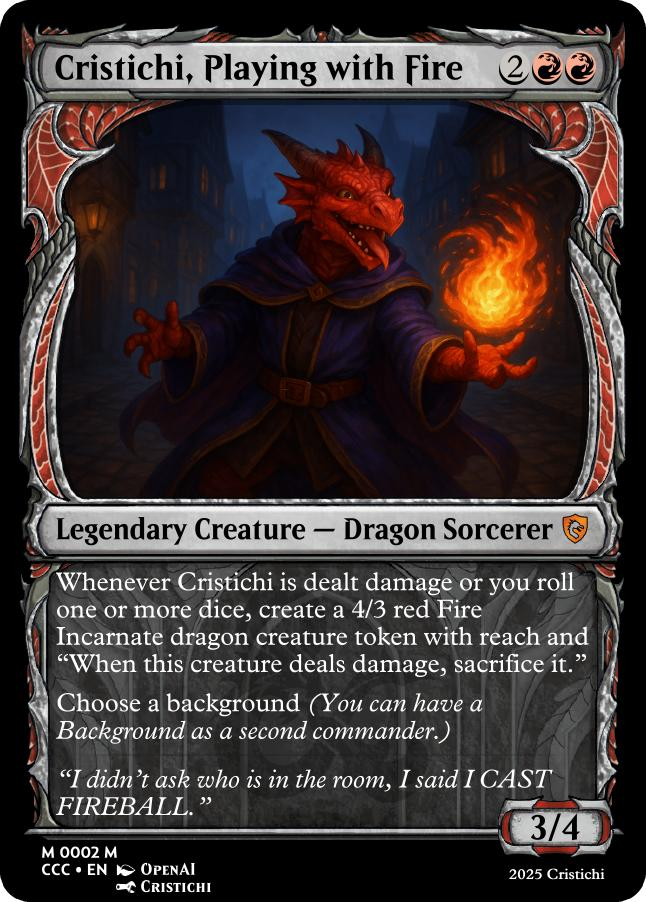
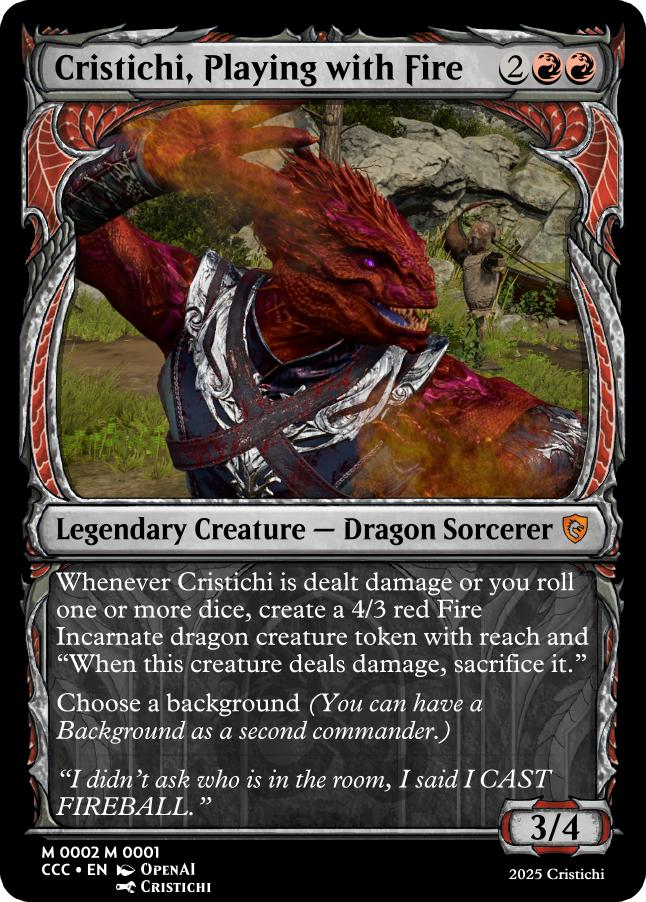
Removed AI images from CCC
I don't know why I didn't just use a screenshot from Baldur's Gate 3 from the start, the card literally my roleplaying comfort character.

Changed region(s): [[0.0619, 0.0931, 0.9288, 0.5588], [0.1858, 0.9313, 0.2477, 0.9623]]

diff --git a/previews/CCC.html b/previews/CCC.html
@@ -204,8 +204,8 @@
 					<div class="container"><img loading="lazy" alt="/img\e.png" id="e" data-flag="@E" onclick="openSidebar('e',false)"></div>
 				<div class="container"><img loading="lazy" alt="/sets\CCC-files\img\3.jpg" id="3" data-flag="@X" onclick="openSidebar('3',false)"></div>
 				<div class="container"><img loading="lazy" alt="/img\e.png" id="e" data-flag="@E" onclick="openSidebar('e',false)"></div>
-				<div class="container"><img loading="lazy" alt="/sets\CCC-files\img\4.jpg" id="4" data-flag="@X" onclick="openSidebar('4',false)"></div>
-				<div class="container"><img loading="lazy" alt="/sets\CCC-files\img\5.jpg" id="5" data-flag="@X" onclick="openSidebar('5',false)"></div>
+				<div class="container"><img loading="lazy" alt="/sets\CCC-files\img\0.jpg" id="0" data-flag="@X" onclick="openSidebar('0',false)"></div>
+				<div class="container"><img loading="lazy" alt="/sets\CCC-files\img\1.jpg" id="1" data-flag="@X" onclick="openSidebar('1',false)"></div>
 				<div class="container"><img loading="lazy" alt="/img\er.png" id="er" data-flag="@E" onclick="openSidebar('er',false)"></div>
 				<div class="container"><img loading="lazy" alt="/img\er.png" id="er" data-flag="@E" onclick="openSidebar('er',false)"></div>
 				<div class="container"><img loading="lazy" alt="/img\er.png" id="er" data-flag="@E" onclick="openSidebar('er',false)"></div>

diff --git a/all-sets.html b/all-sets.html
@@ -100,7 +100,7 @@
 				<img src="/sets/CCC-files/icon.png">
 				<div class="set-title">Cristichi Custom Cards</div>
 				<div>CCC</div>
-				<div>5</div>
+				<div>3</div>
 			</a>
 			
 			<a href="/sets/LPDS" class="set-row"> 
